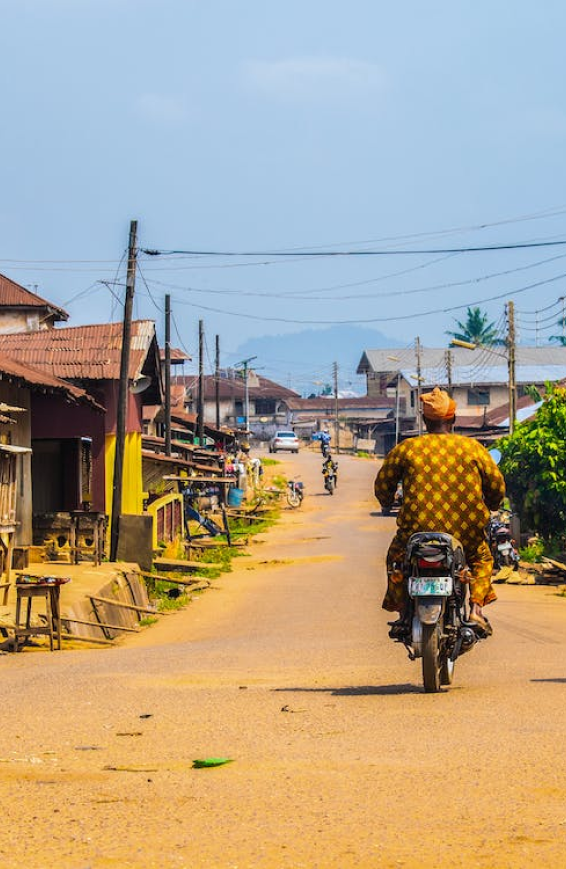
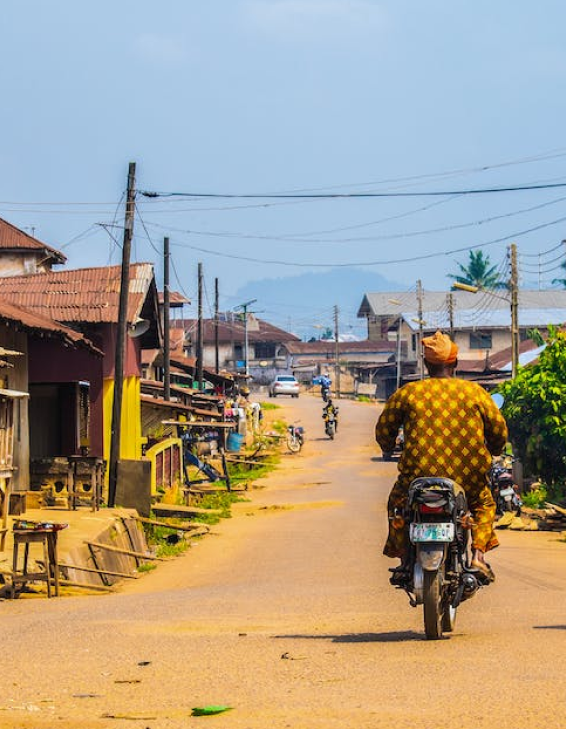
hero image changed

diff --git a/src/pages/About.jsx b/src/pages/About.jsx
@@ -10,7 +10,9 @@ const About = () => {
     <section className="lg:mt-[8rem] mt-[7rem] ">
       <div className="flex justify-evenly items-start  w-full gap-0 md:gap-10">
         <div className="w-[50%]  ps-4 md:ps-4 lg:ps-0 md:w-[40%] ">
-          <h1 className="text-3xl md:text-5xl font-bold">Our Story</h1>
+        <h1 className="text-[2rem] font-semibold md:text-[2rem] lg:text-[3rem] sm:text-[1.5rem] h-fit">
+          Our Story {" "}
+        </h1>
           <h3 className="text-xl md:text-3xl font-semibold mt-2 md:mt-10">
             Born in a village, thriving globally. Empowering communities through
             opportunity.
@@ -32,7 +34,7 @@ const About = () => {
         </div>
       </div>
 
-      <div className="w-full h-fit mt-4 block  md:hidden px-4">
+      <div className="w-full  h-fit mt-4 block  md:hidden px-4">
         <p className="">
           Ponka was founded in a village in the middle of a jungle in Sierra
           Leone in 2018 with the aim to increase the employment of the people in
@@ -45,9 +47,9 @@ const About = () => {
         </p>
       </div>
 
-      <div className="flex justify-evenly items-center  w-full gap-0 md:gap-10">
+      <div className="flex justify-evenly   mt-10 items-center  w-full gap-0 md:gap-10">
         <div className="w-[50%]  ps-4 md:ps-4 lg:ps-0 md:w-[40%] ">
-          <img src={bike} alt="" className="" />
+          <img src={teacher} alt="" className="" />
         </div>
         <div className="px-2 md:p-5 w-[50%] md:w-[566px]">
         <h1 className="text-4xl md:text-6xl font-bold w-full  ">How do we work?</h1>
@@ -79,7 +81,7 @@ const About = () => {
         </p>
       </div>
 
-      <div className="third ">
+      <div className="third mt-10  ">
         <div className="flex flex-col items-start pt-8  ">
           <div className="w-[82%] mx-auto  md:mb-10 mb-5">
             <h1 className="text-3xl md:text-5xl font-semibold">

diff --git a/src/pages/Service.jsx b/src/pages/Service.jsx
@@ -134,8 +134,10 @@ const Service = () => {
   return (
     <div className="lg:mt-[8rem] mt-[7rem] lg:px-24 px-10 pb-10">
       <section className="hidden lg:block">
-        <h1 className="text-center text-5xl font-bold mb-5">Our Services</h1>
-        <p className="text-2xl w-[90%]">
+      <h1 className="text-[2rem]  font-semibold md:text-[2rem] lg:text-[3rem] sm:text-[1.5rem] h-fit flex sm:flex-row sm:justify-center">
+          Our Services {" "}
+        </h1>
+        <p className="text-2xl  w-[100%] mt-4">
           Choose Ponka for exceptional service excellence and innovation-driven
           solutions. With a focus on client satisfaction and a track record of
           delivering results, Ponka is your trusted partner for all
@@ -170,7 +172,7 @@ const Service = () => {
           <h1 className="text-3xl lg:text-4xl font-bold mb-5 lg:w-[100%] xl:lg:w-[100%] md:lg:w-[100%] w-[70%]">
           Discover How We Empower Businesses
           </h1>
-          <p className="w-[80%] text-2xl">
+          <p className="w-[100%] text-2xl">
             Our business model is based on recurring business and referral
             business from our happy customers. We go that extra mile to ensure
             complete customer satisfaction.

diff --git a/src/pages/Support.jsx b/src/pages/Support.jsx
@@ -27,9 +27,9 @@ const Support = () => {
     toast.success("URL Copied ");
   };
   return (
-    <div className="lg:mt-[8rem] mt-[7rem] sm:px-[10%]  lg:px-[6%] md:[px-1%] px-[10%] sm:mx-[15%] lg:mx-[5%] md:mx-[1%] flex-col justify-center sm:justify-start  pb-10">
+    <div className="lg:mt-[8rem]  mt-[7rem] sm:px-[10%]  lg:px-[6%] md:[px-1%] px-[10%] sm:mx-[15%] lg:mx-[5%] md:mx-[1%] flex-col justify-center sm:justify-start  pb-10">
       <div className="mb-8  lg:text-center md:text-center sm:mb-12 ">
-        <h1 className="text-[2rem] font-semibold md:text-[2rem] lg:text-[3rem] sm:text-[1.5rem] flex sm:flex-row sm:justify-center">
+        <h1 className="text-[2rem]  font-semibold md:text-[2rem] lg:text-[3rem] sm:text-[1.5rem] h-fit flex sm:flex-row sm:justify-center">
           Get <span className="sm:mx-[1rem] ml-[0.5rem]"> Involved </span>{" "}
         </h1>
         <p className="font-semibold sm:mt-1 mt-2 text-[1.15rem] lg:text-[1rem] md:text-[0.75rem] sm:text-[1rem]">

diff --git a/src/pages/Contact.jsx b/src/pages/Contact.jsx
@@ -66,7 +66,7 @@ const Contact = () => {
   return (
     <div className="lg:mt-[8rem] mt-[7rem] mx-[10%] sm:mx-[15%] flex-col justify-center sm:justify-start">
       <div className="mb-8 lg:text-center md:text-center sm:mb-12">
-        <h1 className="text-[2rem] font-semibold md:text-[2rem] lg:text-[3rem] sm:text-[1.5rem] flex sm:flex-row sm:justify-center">
+        <h1 className="text-[2rem]  font-semibold md:text-[2rem] lg:text-[3rem] sm:text-[1.5rem] flex sm:flex-row sm:justify-center">
           Contact <span className=" ml-[0.5rem] sm:ml-[1rem]"> Us </span>
         </h1>
       </div>

diff --git a/src/components/home/Hero.jsx b/src/components/home/Hero.jsx
@@ -2,7 +2,7 @@ const Hero = () => {
   return (
     <div className="hero flex flex-col">
       <header className="flex-grow flex flex-col h-full justify-center items-center px-8">
-        <h1 className="md:text-[3rem] lg:text-[4rem] text-[2rem] font-bold text-white text-center mt-24 md:mt-20 lg:mt-48 pb-5">
+        <h1 className="md:text-[3rem] lg:text-[4rem] text-[2rem] font-bold text-white text-center mt-72 md:mt-20 lg:mt-48 pb-5">
           Elevating Businesses, <br /> Empowering Lives
         </h1>
       </header>

diff --git a/src/index.css b/src/index.css
@@ -103,11 +103,12 @@ body {
   max-width: 100%;
 }
 .hero {
-  background-image: url("./assets/hero.png");
+  background-image: url("./assets/hero.jpg");
   background-size: cover;
   background-position: center;
   background-repeat: no-repeat;
   height: 70vh;
+  
 }
 
 .input-field {
